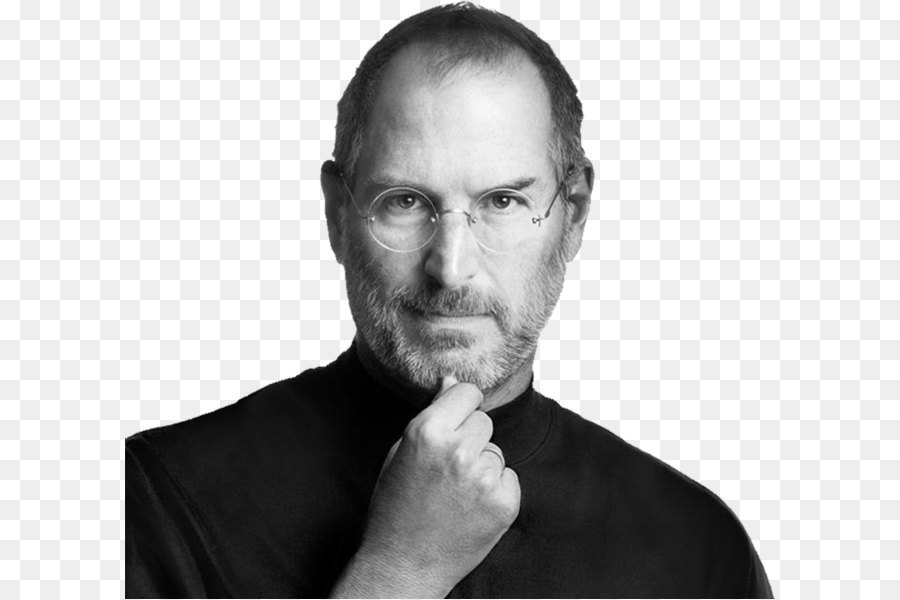
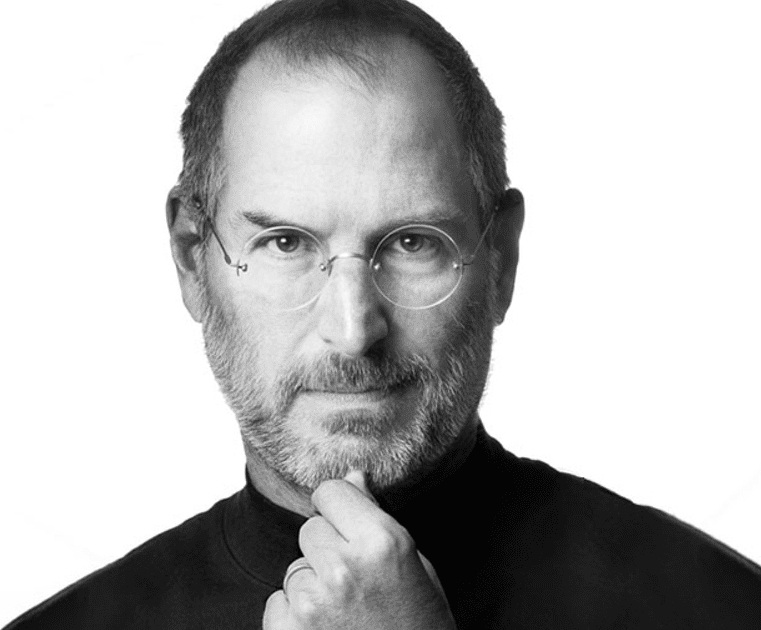
pilt

diff --git a/steveJobs.html b/steveJobs.html
@@ -2,9 +2,16 @@
 <html>
 <head class="heading">
   <title>Steve Jobs</title>
-  <strong>Steve Jobs</strong>
+  <strong class="heading">Steve Jobs</strong>
+  <br>
+  <strong class="heading">1955 - 2011</strong>
 </head>
 <body>
+  <div>
+    <a href="css/images/steveJobs.jpg">
+      <img src="css/images/steveJobs.jpg" alt="Steve Jobs Porttrait" width="200">
+    </a>
+  </div>
   <div class="text">
     <p> <strong>Steven Paul Jobs</strong> was an American inventor, designer and entrepreneur who was the co-founder, chief executive and chairman of Apple Computer. His impact on the technology industry, entertainment, advertising and pop culture was vast, and he leaves behind an empire that is changing the way we all live and work.</p>
   </div>

diff --git a/CSS/stylesheet.css b/CSS/stylesheet.css
@@ -10,5 +10,3 @@
     margin-top:50px;
     margin-left:40px;
 }
-
-   
